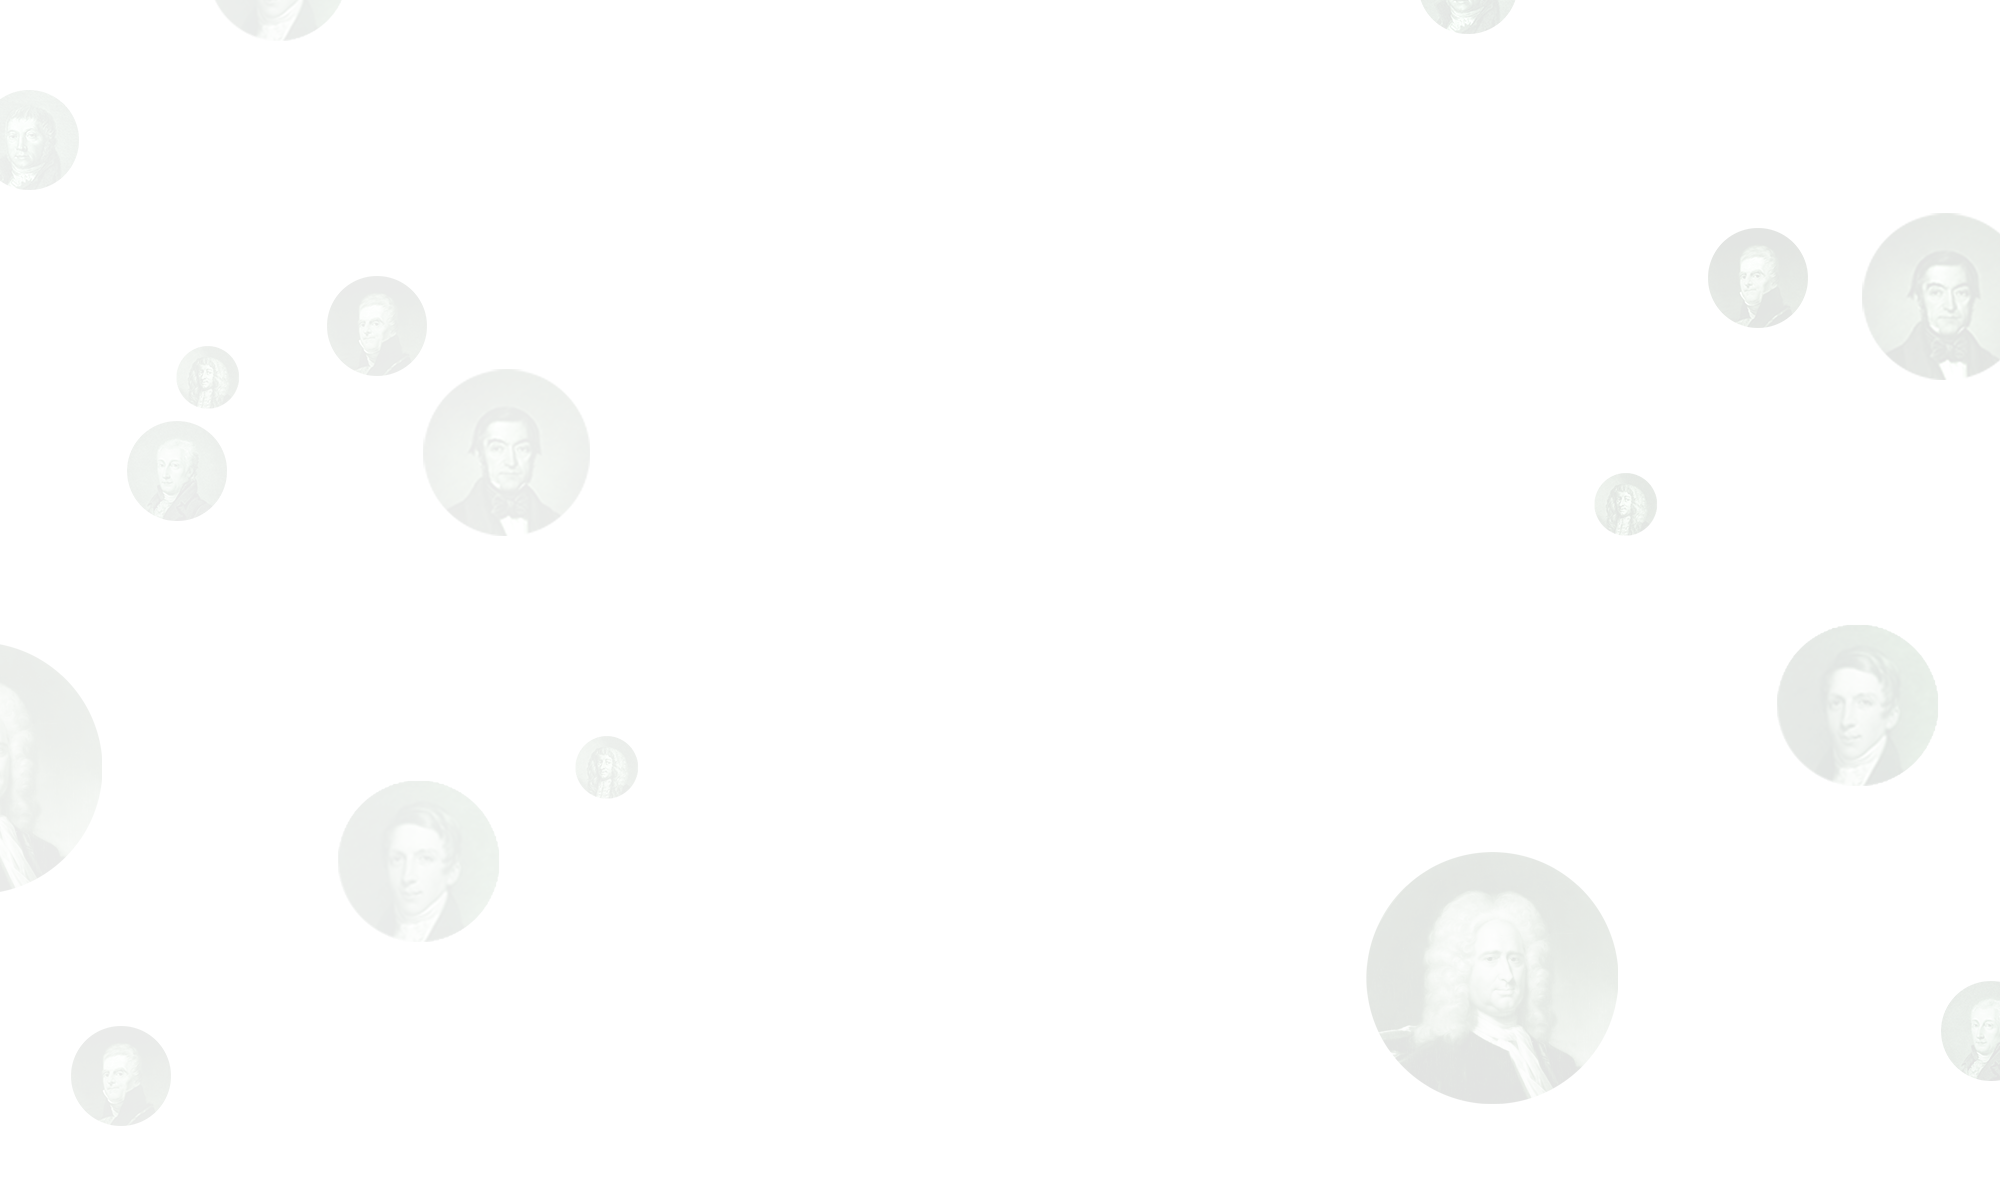
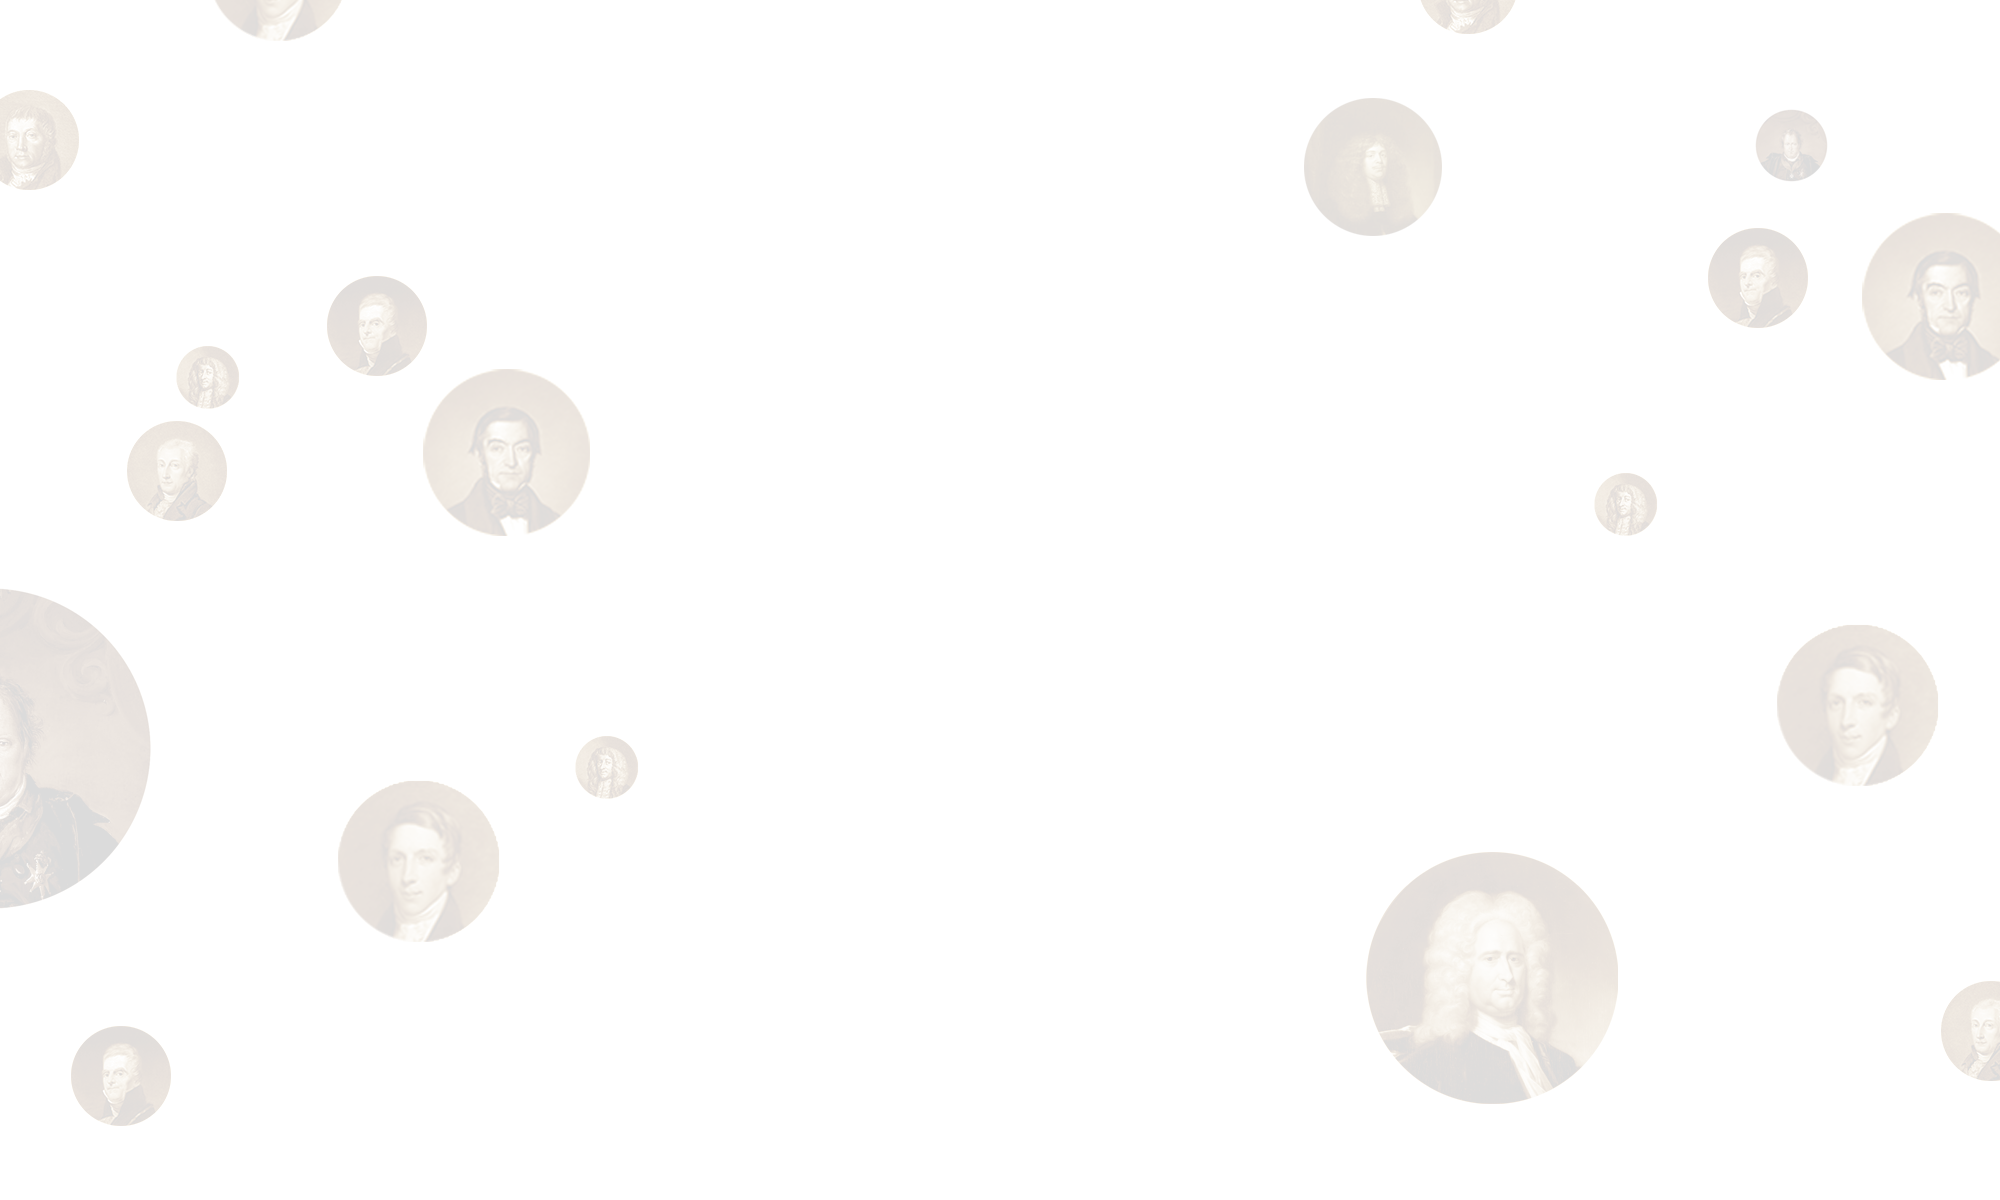
Readme

Changed region(s): [[0.0, 0.4933, 0.093, 0.7708], [0.651, 0.0617, 0.744, 0.2158], [0.868, 0.0925, 0.93, 0.1542]]

diff --git a/app/profile/page.jsx b/app/profile/page.jsx
@@ -63,61 +63,62 @@ const ProfilePage = () => {
   };
 
   return (
-    <div className="singlepost w-full max-w-[680px] mx-auto p-4 bg-white rounded-lg text-black ">
-      <div className="w-full border-b border-gray-400 mb-4 text-xl font-semibold py-2">
-        Jouw Profiel:
-      </div>
+    
+      <div className="singlepost w-full max-w-[650px] mx-auto p-4 bg-white rounded-lg text-black">
+        <div className="w-full border-b border-gray-400 mb-4 text-xl font-semibold py-2">
+          Jouw Profiel:
+        </div>
 
-      <div className="mb-2">
-        <span className="font-semibold">Naam: </span>
-        <span className="font-normal">{name}</span>
-      </div>
+        <div className="mb-2">
+          <span className="font-semibold">Naam: </span>
+          <span className="font-normal">{name}</span>
+        </div>
 
-      <div className="mb-2">
-        <span className="font-semibold">Gebruikersnaam: </span>
-        <span className="font-normal">{username}</span>
-      </div>
+        <div className="mb-2">
+          <span className="font-semibold">Gebruikersnaam: </span>
+          <span className="font-normal">{username}</span>
+        </div>
 
-      <div className="mb-4 border-b border-gray-400 pb-4">
-        <span className="font-semibold">Email: </span>
-        <span className="font-normal">{email}</span>
-      </div>
+        <div className="mb-4 border-b border-gray-400 pb-4">
+          <span className="font-semibold">Email: </span>
+          <span className="font-normal">{email}</span>
+        </div>
 
-      <div className="mb-4 flex flex-row justify-between">
-        <div className="flex flex-col">
-          <span className="mb-2 font-semibold">Voeg profielfoto toe:</span>
-          <form onSubmit={handleSubmit}>
-            <input
-              type="file"
-              accept="image/*"
-              onChange={(e) => setAvatar(e.target.files[0])}
+        <div className="mb-4 flex flex-row justify-between">
+          <div className="flex flex-col">
+            <span className="mb-2 font-semibold">Voeg profielfoto toe:</span>
+            <form onSubmit={handleSubmit}>
+              <input
+                type="file"
+                accept="image/*"
+                onChange={(e) => setAvatar(e.target.files[0])}
+              />
+              <div className="w-full mt-4 bg-gradient-to-r from-yellow-900 via-yellow-700 to-yellow-900 rounded-lg p-1">
+                <button
+                  type="submit"
+                  className="w-full py-2  rounded-lg text-white font-semibold "
+                >
+                  Verstuur
+                </button>
+              </div>
+            </form>
+          </div>
+
+          <div className="pr-4 flex items-center mb-16">
+            <Image
+              src={
+                session?.user?.avatar
+                  ? session?.user?.avatar
+                  : "/images/defaultAvatar.png"
+              }
+              alt=""
+              width={50}
+              height={50}
+              className="w-[50px] h-[50px] rounded-full"
             />
-            <div className="w-full mt-4 bg-gradient-to-r from-green-950 via-green-800 to-green-950 rounded-lg p-1">
-              <button
-                type="submit"
-                className="w-full py-2  rounded-lg text-white font-semibold "
-              >
-                Verstuur
-              </button>
-            </div>
-          </form>
-        </div>
-
-        <div className="pr-4 flex items-center mb-16">
-          <Image
-            src={
-              session?.user?.avatar
-                ? session?.user?.avatar
-                : "/images/defaultAvatar.png"
-            }
-            alt=""
-            width={50}
-            height={50}
-            className="w-[50px] h-[50px] rounded-full"
-          />
+          </div>
         </div>
       </div>
-    </div>
   );
 };
 

diff --git a/app/login/page.jsx b/app/login/page.jsx
@@ -52,15 +52,14 @@ const LoginPage = () => {
   return (
     <div className="w-full mx-auto px-2">
       <div className="p-6 rounded-lg shadow-md w-full max-w-[680px] mx-auto bg-white">
-        <div className="flex justify-center text-xl text-green-900 font-bold mb-4 border-b-2 border-dotted border-green-900 pb-4">
+        <div className="flex justify-center text-xl font-bold mb-4 border-b-2 border-dotted border-green-900 pb-4">
           Log in
         </div>
 
-        <form onSubmit={handleSubmit}>
-         
+        <form onSubmit={handleSubmit} className="text-black">
           <div className="mb-4">
             <label
-              className="block text-green-900 text-md font-bold mb-2"
+              className="block text-md font-bold mb-2"
               htmlFor="email"
             >
               Email:
@@ -77,7 +76,7 @@ const LoginPage = () => {
           </div>
           <div className="mb-4">
             <label
-              className="block text-green-900 text-md font-bold mb-2"
+              className="block text-md font-bold mb-2"
               htmlFor="password"
             >
               Password:
@@ -108,15 +107,15 @@ const LoginPage = () => {
 
           <div className="mt-4 mb-4">
             <button
-              className="bg-gradient-to-r from-green-950 via-green-700 to-green-950 text-white text-md py-6 rounded-lg w-full flex items-center justify-center"
+              className="bg-gradient-to-r from-yellow-900 via-yellow-700 to-yellow-900 text-white text-md py-6 rounded-lg w-full flex items-center justify-center"
               type="submit"
             >
               <SendHorizontal className="mr-2" /> Log in
             </button>
           </div>
 
-          <div className="w-full mt-4 flex items-center gap-1 font-medium text-green-900">
-           Nog geen account? <ArrowRight size={16} />
+          <div className="w-full mt-4 flex items-center gap-1 font-medium">
+            Nog geen account? <ArrowRight size={16} />
             <Link href="/register">Registreer</Link>
           </div>
         </form>

diff --git a/components/AddPost.jsx b/components/AddPost.jsx
@@ -26,31 +26,29 @@ const AddPost = () => {
   };
 
 return (
-    <div>
-      <section className="singlepost w-full max-w-[680px] flex justify-between px-4 mx-auto bg-white py-4 rounded-lg">
-        <div className="w-full flex flex-row gap-4 items-center">
-          <Image
-            src={profilePic ? profilePic :
-              "/images/defaultAvatar.png"
-            }
-            width={45}
-            height={45}
-            alt=""
-            className="rounded-full w-[45px] h-[45px]"
-          />
-          <button
-            className="w-full h-[40px] bg-slate-100 rounded-full pl-4 outline-none flex items-center text-gray-500 cursor-pointer"
-            onClick={showAddPostModal}
-          >
-            {session?.user
-              ? `Wat wil je met ons delen, ${name}?`
-              : "wat wil je met ons delen?"}
-          </button>
-        </div>
-      </section>
-      <AddPostModal inView={inView} setInView={setInView} />
-    </div>
-  );
+  <div className="mx-4">
+    <section className="singlepost w-full max-w-[650px] flex justify-between px-4 mx-auto bg-white py-4 rounded-lg">
+      <div className="w-full flex flex-row gap-4 items-center">
+        <Image
+          src={profilePic ? profilePic : "/images/defaultAvatar2.png"}
+          width={45}
+          height={45}
+          alt=""
+          className="rounded-full w-[45px] h-[45px]"
+        />
+        <button
+          className="w-full h-[40px] bg-gradient-to-r from-yellow-800 via-yellow-700 to-yellow-800 rounded-full pl-4 outline-none flex items-center text-white cursor-pointer"
+          onClick={showAddPostModal}
+        >
+          {session?.user
+            ? `Wat wil je met ons delen, ${name}?`
+            : "wat wil je met ons delen?"}
+        </button>
+      </div>
+    </section>
+    <AddPostModal inView={inView} setInView={setInView} />
+  </div>
+);
 };
 
 export default AddPost;

diff --git a/components/AddPostModal.jsx b/components/AddPostModal.jsx
@@ -71,12 +71,12 @@ const deleteSelectedImage = (name) => {
  
 return (
   inView && (
-    <div className="w-full h-full fixed top-0 left-0 right-0  bg-amber-950/60 flex justify-center items-center z-[999]">
+    <div className="w-full h-full fixed top-0 left-0 right-0  bg-yellow-950/70 flex justify-center items-center z-[999]">
       <div className="postmodal w-full max-w-[500px] bg-white rounded-lg shadow-md p-4 mx-4">
         <div className="w-full flex flex-row justify-between items-center border-b border-gray-300 pb-2">
           <div className="text-lg font-semibold">Schrijf een bericht</div>
           <div className="cursor-pointer" onClick={closeModal}>
-            <IoMdCloseCircleOutline size={35} color="green" />
+            <IoMdCloseCircleOutline size={35} color={"#854d0e"} />
           </div>
         </div>
 
@@ -131,7 +131,7 @@ return (
 
           <button
             type="submit"
-            className="w-full bg-gradient-to-r from-green-950 via-green-700 to-green-950 rounded-lg flex justify-center py-3 text-white text-lg"
+            className="w-full bg-gradient-to-r from-yellow-950 via-yellow-700 to-yellow-950 rounded-lg flex justify-center py-3 text-white text-lg"
           >
             {loading ? <span>....even geduld!</span> : "Plaatsen"}
           </button>

diff --git a/components/SinglePost.jsx b/components/SinglePost.jsx
@@ -28,19 +28,18 @@ const SinglePost = ({ post, comments }) => {
   useEffect(() => {
     if (session?.user.id === post.user._id) {
       setShowThreeDots(true);
+      setProfilePic(session?.user?.avatar);
     }
 
-    if (post?.user?.avatar) {
+     else if (post?.user?.avatar) {
       setProfilePic(post.user.avatar);
-    }
+     }
     
   }, [session, post.user._id, post.user.avatar]);
 
-  console.log()
-
 
   return (
-    <div className="singlepost bg-white h-auto rounded-lg mb-4 flex flex-col  shadow-md relative">
+    <div className="singlepost bg-white h-auto rounded-lg mb-4 flex flex-col shadow-md relative mx-4">
       {showOptions && (
         <div className="postMenu absolute top-12 right-14 flex flex-col h-auto w-[240px] bg-white rounded-lg p-4 text-lg font-semibold ">
           <div
@@ -91,7 +90,7 @@ const SinglePost = ({ post, comments }) => {
               alt=""
               width={40}
               height={40}
-              className="rounded-full w-[40px] h-[40px] cursor-pointer transition-all hover:bg-green-800/20 p-2"
+              className="rounded-full w-[40px] h-[40px] cursor-pointer transition-all hover:bg-yellow-800/40 p-2"
               onClick={() => setShowOptions(!showOptions)}
             />
           </div>

diff --git a/components/PostComment.jsx b/components/PostComment.jsx
@@ -47,7 +47,7 @@ const sortedComments = comments.sort((a, b) =>
                src={
                  com.userId.avatar
                    ? com.userId.avatar
-                   : "/images/defaultAvatar.png"
+                   : "/images/defaultAvatar2.png"
                }
                alt="avatar"
                width={45}
@@ -83,7 +83,7 @@ const sortedComments = comments.sort((a, b) =>
      <div className="flex w-full gap-2 px-4 pb-4">
        <div>
          <Image
-           src={profilePic ? profilePic : "/images/defaultAvatar.png"}
+           src={profilePic ? profilePic : "/images/defaultAvatar2.png"}
            alt=""
            width={45}
            height={45}

diff --git a/app/layout.jsx b/app/layout.jsx
@@ -13,8 +13,8 @@ export const metadata = {
 export default function RootLayout({ children }) {
   return (
     <html lang="en">
-      <body className="relative bg-gradient-to-r from-slate-950 via-yellow-700 to-slate-950">
-        <div className="fixed w-full h-full bg-[url('../public/images/homebg.png')] bg-top bg-cover bg-no-repeat -z-10" />
+      <body className="relative bg-gradient-to-r from-red-950 via-yellow-700 to-red-950">
+        <div className="fixed w-full h-full  bg-[url('../public/images/homebg.png')] bg-center bg-cover bg-no-repeat -z-10" />
         <AuthProvider>
           <Navbar />
           <main>{children}</main>

diff --git a/components/Navbar.jsx b/components/Navbar.jsx
@@ -10,7 +10,7 @@ const Navbar = () => {
   const { data: session, status } = useSession();
 
   return (
-    <div className="w-full max-w-[680px] flex justify-center m-auto pt-4 pb-4 flex-col">
+    <div className="w-full max-w-[680px] flex justify-center m-auto pt-4 pb-4 flex-col px-4">
       <Link href="/" className="flex flex-row items-center">
         <span className="text-white text-6xl font-CloisterBlack py-4">
           Staatslieden

diff --git a/README.md b/README.md
@@ -1,4 +1,4 @@
 
 
 
-![sl2](https://github.com/user-attachments/assets/0a7f5813-1611-4ad6-aa57-08fb36147c92)
+![sl3](https://github.com/user-attachments/assets/1ece79be-29a8-4072-8613-b545fc1b3c92)
